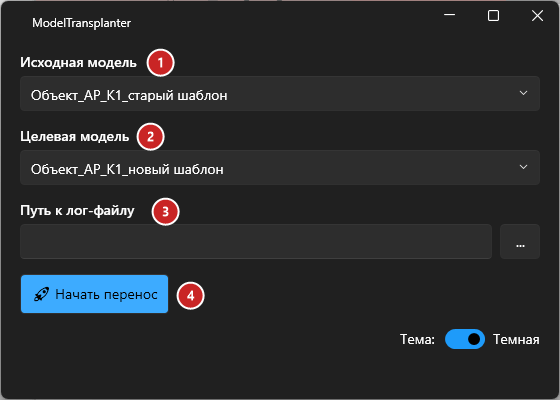
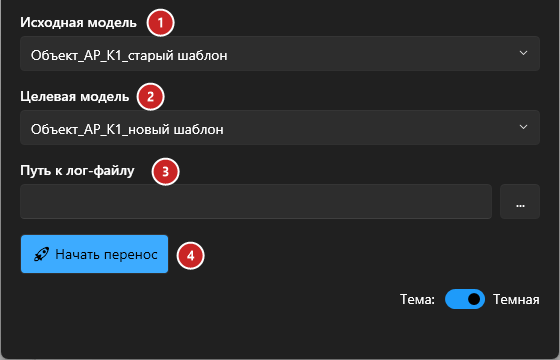
fixes ugs and add wiki links in plugins

diff --git a/source/ParamChecker/Views/Pages/ExportProfiles.xaml b/source/ParamChecker/Views/Pages/ExportProfiles.xaml
@@ -138,8 +138,8 @@
                                         MaxHeight="50"
                                         VerticalScrollBarVisibility="Auto"
                                         HorizontalScrollBarVisibility="Disabled"
-                                        TextWrapping="Wrap"
-                                        AcceptsReturn="True" />
+                                        TextWrapping="NoWrap"
+                                        AcceptsReturn="False" />
 
                                     <ui:Button
                                         Grid.Column="2"
@@ -157,7 +157,7 @@
                                         Margin="10,0,0,0"
                                         MaxHeight="50"
                                         VerticalScrollBarVisibility="Auto"
-                                        TextWrapping="Wrap"
+                                        TextWrapping="NoWrap"
                                         HorizontalScrollBarVisibility="Disabled" />
 
                                     <ui:Button

diff --git a/source/ToadExporter/Views/ToadExporterView.xaml b/source/ToadExporter/Views/ToadExporterView.xaml
@@ -312,7 +312,7 @@
                                           ToolTipService.ShowOnDisabled="True" />
                                 <CheckBox Content="Сжать файл" IsChecked="{Binding Settings.Compact}" Margin="0,4,0,0" />
                                 <TextBlock Margin="0,8,0,0" Opacity="0.7" FontSize="12" TextWrapping="Wrap"
-                                           Text="Сохраняется как файл хранилища — у получателя откроется без предупреждений" />
+                                           Text="Модель совместной работы сохраняется локальной копией с рабочими наборами (как createLocalRVT); её файл хранилища не сохраняется" />
                             </StackPanel>
                         </ui:CardExpander>
 

diff --git a/source/ParamToFinish/Views/ParamToFinishView.xaml b/source/ParamToFinish/Views/ParamToFinishView.xaml
@@ -8,7 +8,7 @@
     xmlns:viewModels="clr-namespace:ParamToFinish.ViewModels"
     d:DataContext="{d:DesignInstance Type=viewModels:ParamToFinishViewModel}"
     mc:Ignorable="d"
-    Title="ModelTransplanter"
+    Title="Основание отделки"
     WindowStartupLocation="CenterScreen"
     WindowBackdropType="Mica"
     WindowCornerPreference="Round"
@@ -24,7 +24,7 @@
             <RowDefinition Height="Auto" />
         </Grid.RowDefinitions>
         <!-- Title Bar -->
-        <ui:TitleBar Grid.Row="0" Title="ParamToFinish" Icon="AddCircle24" />
+        <ui:TitleBar Grid.Row="0" Title="Основание отделки" Icon="AddCircle24" />
         
         <!-- Content -->
         <Grid Grid.Row="1" Margin="10,0,10,10">

diff --git a/source/CreateSpaces/Views/CreateSpacesView.xaml b/source/CreateSpaces/Views/CreateSpacesView.xaml
@@ -6,7 +6,7 @@
     xmlns:d="http://schemas.microsoft.com/expression/blend/2008"
     xmlns:ui="http://schemas.lepo.co/wpfui/2022/xaml"
     mc:Ignorable="d"
-    Title="ModelTransplanter"
+    Title="Создание пространств"
     WindowStartupLocation="CenterScreen"
     WindowBackdropType="Mica"
     WindowCornerPreference="Round"
@@ -22,7 +22,7 @@
             <RowDefinition Height="Auto" />
         </Grid.RowDefinitions>
         <!-- Title Bar -->
-        <ui:TitleBar Grid.Row="0" Title="CreateCover" Icon="AddCircle24" />
+        <ui:TitleBar Grid.Row="0" Title="Создание пространств" Icon="AddCircle24" />
         
         <!-- Content -->
         <Grid Grid.Row="1" Margin="10,0,10,10">

diff --git a/source/CreateCover/Views/CreateCoverView.xaml b/source/CreateCover/Views/CreateCoverView.xaml
@@ -6,7 +6,7 @@
     xmlns:d="http://schemas.microsoft.com/expression/blend/2008"
     xmlns:ui="http://schemas.lepo.co/wpfui/2022/xaml"
     mc:Ignorable="d"
-    Title="ModelTransplanter"
+    Title="Разместить крышки"
     WindowStartupLocation="CenterScreen"
     WindowBackdropType="Mica"
     WindowCornerPreference="Round"
@@ -22,7 +22,7 @@
             <RowDefinition Height="Auto" />
         </Grid.RowDefinitions>
         <!-- Title Bar -->
-        <ui:TitleBar Grid.Row="0" Title="CreateCover" Icon="AddCircle24" />
+        <ui:TitleBar Grid.Row="0" Title="Разместить крышки" Icon="AddCircle24" />
         
         <!-- Content -->
         <Grid Grid.Row="1" Margin="10,0,10,10">

diff --git a/source/WriteDash/Views/WriteDashView.xaml b/source/WriteDash/Views/WriteDashView.xaml
@@ -6,7 +6,7 @@
     xmlns:d="http://schemas.microsoft.com/expression/blend/2008"
     xmlns:ui="http://schemas.lepo.co/wpfui/2022/xaml"
     mc:Ignorable="d"
-    Title="ModelTransplanter"
+    Title="Записать прочерк"
     WindowStartupLocation="CenterScreen"
     WindowBackdropType="Mica"
     WindowCornerPreference="Round"
@@ -22,7 +22,7 @@
             <RowDefinition Height="Auto" />
         </Grid.RowDefinitions>
         <!-- Title Bar -->
-        <ui:TitleBar Grid.Row="0" Title="WriteDash" Icon="AddCircle24" />
+        <ui:TitleBar Grid.Row="0" Title="Записать прочерк" Icon="AddCircle24" />
         
         <!-- Content -->
         <Grid Grid.Row="1" Margin="10,0,10,10">

diff --git a/source/ModelTransplanter/Views/ModelTransplanterView.xaml b/source/ModelTransplanter/Views/ModelTransplanterView.xaml
@@ -7,7 +7,7 @@
     xmlns:ui="http://schemas.lepo.co/wpfui/2022/xaml"
     xmlns:converters="clr-namespace:ToadTools.UI.Converters;assembly=ToadTools.UI"
     mc:Ignorable="d"
-    Title="ModelTransplanter"
+    Title="Копирование элементов"
     WindowStartupLocation="CenterScreen"
     WindowBackdropType="Mica"
     WindowCornerPreference="Round"
@@ -19,7 +19,7 @@
 
     <Grid>
         <!-- Title Bar -->
-        <ui:TitleBar Title="ModelTransplanter" Icon="AddCircle24" />
+        <ui:TitleBar Title="Копирование элементов" Icon="AddCircle24" />
 
         <!-- Content -->
         <StackPanel Margin="20" VerticalAlignment="Center">

diff --git a/source/WorkingSet/Views/WorkingSetView.xaml b/source/WorkingSet/Views/WorkingSetView.xaml
@@ -9,7 +9,7 @@
     WindowStartupLocation="CenterScreen"
     WindowBackdropType="Mica"
     WindowCornerPreference="Round"
-    Title="WorkingSet"
+    Title="Создание рабочих наборов"
     Height="300"
     Width="400"
     MinHeight="300"
@@ -21,7 +21,7 @@
             <RowDefinition Height="*"/>
         </Grid.RowDefinitions>
         
-        <ui:TitleBar Grid.Row="0" Title="Создание Рабочих наборов">
+        <ui:TitleBar Grid.Row="0" Title="Создание рабочих наборов">
             <ui:TitleBar.Icon>
                 <ui:SymbolIcon Symbol="AddCircle24"/>
             </ui:TitleBar.Icon>            

diff --git a/source/QuantityCheck/Views/QuantityCheckView.xaml b/source/QuantityCheck/Views/QuantityCheckView.xaml
@@ -9,7 +9,7 @@
     WindowStartupLocation="CenterScreen"
     WindowBackdropType="Mica"
     WindowCornerPreference="Round"
-    Title="WorkingSet"
+    Title="Записать количество"
     Height="300"
     Width="450"
     MinHeight="250"
@@ -27,7 +27,7 @@
 
         <!-- Заголовок -->
         <ui:TitleBar Grid.Row="0"
-                     Title="Создание рабочих наборов"
+                     Title="Записать количество"
                      Margin="0,0,0,10">
             <ui:TitleBar.Icon>
                 <ui:SymbolIcon Symbol="AddCircle24"/>

diff --git a/source/SSPlan/Views/SSPlanView.xaml b/source/SSPlan/Views/SSPlanView.xaml
@@ -9,7 +9,7 @@
     WindowStartupLocation="CenterScreen"
     WindowBackdropType="Mica"
     WindowCornerPreference="Round"
-    Title="WorkingSet"
+    Title="Структурная схема"
     Height="450"
     Width="450"
     MinHeight="450"

diff --git a/source/SmartTags/Views/PickPanelView.xaml b/source/SmartTags/Views/PickPanelView.xaml
@@ -11,7 +11,8 @@
     ShowInTaskbar="False"
     ShowActivated="False"
     Width="380"
-    SizeToContent="Height"
+    Height="150"
+    MinHeight="0"
     ExtendsContentIntoTitleBar="True">
     <Grid>
         <Grid.RowDefinitions>

diff --git a/source/ToadTools/Application.cs b/source/ToadTools/Application.cs
@@ -13,7 +13,8 @@ namespace ToadTools
     public class Application : AsyncExternalApplication
     {
         private const string TabName = "ToadTools";
-        private const string HelpUrl = "https://bim-baza.yonote.ru/doc/";
+        /// <summary>Вики плагина: страница справки открывается по F1 на кнопке ленты.</summary>
+        internal const string WikiUrl = "https://github.com/Alexpivo394/ToadTools/wiki/";
 
         public override async Task OnStartupAsync()
         {
@@ -45,31 +46,28 @@ namespace ToadTools
             var worksets = panel.AddSplitButton("Worksets", "Рабочие\nнаборы");
             worksets.AddPushButton<Commands.WorkingSetCommand>("Создание\nнаборов")
                 .WithIcon("Create")
-                .WithInfo("Создает в модели рабочие наборы\nдля выбранного раздела.",
-                    "sozdanie-rabochih-naborov-plaginom-rptools-j3Ycy39HVW");
+                .WithInfo("Создает в модели рабочие наборы\nдля выбранного раздела.", "WorkingSet");
             worksets.AddPushButton<Commands.WorksetCheckCommand>("Проверка\nнаборов")
                 .WithIcon("WorksetsCheck")
                 .WithInfo("Проверяет распределение элементов\nоткрытой модели по рабочим наборам\nи исправляет найденное.",
-                    "worksetcheck-rfycq6j0Bd");
+                    "WorksetCheck");
 
             panel.AddPushButton<Commands.ParamCheckerCommand>("Param\nChecker")
                 .WithIcon("Export")
-                .WithInfo("Выгружает из моделей на сервере\nотчет по заполнению параметров.",
-                    "paramchecker-movFIkYSwy");
+                .WithInfo("Выгружает из моделей на сервере\nотчет по заполнению параметров.", "ParamChecker");
 
             panel.AddPushButton<Commands.ToadExporterCommand>("Toad\nExporter")
                 .WithIcon("ToadExporter")
-                .WithInfo("Выгружает модели с Revit Server\nили из папки в RVT и NWC.");
+                .WithInfo("Выгружает модели с Revit Server\nили из папки в RVT и NWC.", "ToadExporter");
 
             var stack = panel.AddStackPanel();
             stack.AddPushButton<Commands.ModelTransplanterCommand>("Копирование элементов")
                 .WithIcon("Transplanter")
-                .WithInfo("Позволяет копировать элементы\nиз модели в модель.",
-                    "kopirovanie-soderzhimogo-modeli-7q8Wf296FB");
+                .WithInfo("Позволяет копировать элементы\nиз модели в модель.", "ModelTransplanter");
             stack.AddPushButton<Commands.ChangeSharedFamiliesCommand>("Общие → необщие")
                 .WithIcon("ChangeSharedFamilies")
                 .WithInfo("Заменяет общие вложенные семейства\nна необщие. Работает только с\nредактором семейства.",
-                    "zamenit-obshie-semejstva-neobshimi-BDbyQvBJH7");
+                    "ChangeSharedFamilies");
         }
 
         private void CreateGeneralPanel()
@@ -80,25 +78,24 @@ namespace ToadTools
             var stack = panel.AddStackPanel();
             stack.AddPushButton<Commands.SmartTagsCommand>("Умные выноски")
                 .WithIcon("SmartTags")
-                .WithInfo("Расставляет марки на видимых элементах\nактивного вида без пересечений текста\nи выносок. Весь запуск отменяется\nодним Ctrl+Z.");
+                .WithInfo("Расставляет марки на видимых элементах\nактивного вида без пересечений текста\nи выносок. Весь запуск отменяется\nодним Ctrl+Z.",
+                    "SmartTags");
             stack.AddPushButton<Commands.QuantityCheckCommand>("Запись количества")
                 .WithIcon("QuantityCheck")
-                .WithInfo("Заполняет параметр количества\nв элементах модели.",
-                    "zapolnenie-parametra-kolichestvo-beinN88LwP");
+                .WithInfo("Заполняет параметр количества\nв элементах модели.", "QuantityCheck");
             stack.AddPushButton<Commands.WriteDashCommand>("Запись прочерков")
                 .WithIcon("WriteDash")
-                .WithInfo("Заполняет прочерк в указанные параметры\nесли в них нет значения.",
-                    "zapisat-procherk-kfwUDj6TeL");
+                .WithInfo("Заполняет прочерк в указанные параметры\nесли в них нет значения.", "WriteDash");
             stack.AddPushButton<Commands.ClassifierCodeCommand>("Код классификатора")
                 .WithIcon("ClassifierCode")
-                .WithInfo("Заполняет ADSK_Код по классификатору\nи ADSK_Описание по классификатору\nу элементов ИОС.");
+                .WithInfo("Заполняет ADSK_Код по классификатору\nи ADSK_Описание по классификатору\nу элементов ИОС.",
+                    "ClassifierCode");
             stack.AddPushButton<Commands.LengthCommand>("Длина элементов")
                 .WithIcon("Ruler")
-                .WithInfo("Посчитать суммарную длину выбранных элементов.");
+                .WithInfo("Посчитать суммарную длину выбранных элементов.", "Length");
             stack.AddPushButton<Commands.CreateSpacesCommand>("Создание пространств")
                 .WithIcon("Spaces")
-                .WithInfo("Создает в проекте пространства на основе помещений из раздела АР.",
-                    "sozdanie-prostranstv-Bia5rDOjqY");
+                .WithInfo("Создает в проекте пространства на основе помещений из раздела АР.", "CreateSpaces");
         }
 
         private void CreateDisciplinePanels()
@@ -107,52 +104,65 @@ namespace ToadTools
             var panelTray = CreatePanel("Лотки", MediaColor.FromRgb(152, 168, 124));
 
             var trays = panelTray.AddPullDownButton("Кабельные лотки", "Кабельные лотки");
-            trays.WithIcon("1Tray").SetContextualHelp(Help("kabelnye-lotki-hSP8BFIW8g"));
-            trays.AddPushButton<Commands.CableTrayArticulCommand>("Артикулы и наименования").WithIcon("1Tray");
-            trays.AddPushButton<Commands.CableTrayColorPerforationCommand>("Покрасить по перфорации").WithIcon("1Tray");
-            trays.AddPushButton<Commands.CableTrayColorVariantCommand>("Покрасить по исполнению").WithIcon("1Tray");
-            trays.AddPushButton<Commands.CableTrayColorCoverCommand>("Покрасить крышки").WithIcon("1Tray");
+            trays.WithIcon("1Tray").WithInfo("Артикулы и наименования лотков,\nраскраска лотков на виде.", "CableTrays");
+            trays.AddPushButton<Commands.CableTrayArticulCommand>("Артикулы и наименования").WithIcon("1Tray")
+                .WithInfo("Заполняет код изделия, наименование\nи количество у лотков.", "CableTrays");
+            trays.AddPushButton<Commands.CableTrayColorPerforationCommand>("Покрасить по перфорации").WithIcon("1Tray")
+                .WithInfo("Раскрашивает лотки на виде по типу:\nперфорированный, неперфорированный,\nпроволочный.", "CableTrays");
+            trays.AddPushButton<Commands.CableTrayColorVariantCommand>("Покрасить по исполнению").WithIcon("1Tray")
+                .WithInfo("Раскрашивает лотки и детали на виде\nпо ADSK_Исполнение.", "CableTrays");
+            trays.AddPushButton<Commands.CableTrayColorCoverCommand>("Покрасить крышки").WithIcon("1Tray")
+                .WithInfo("Выделяет на виде красным лотки\nи детали с крышкой.", "CableTrays");
 
             panelTray.AddPushButton<Commands.CreateCoverCommand>("Разместить\nкрышки")
                 .WithIcon("CreateCover")
-                .WithInfo("Разместить в модели крышки на кабельные лотки", "razmestit-kryshki-pJSWjFkyzL");
+                .WithInfo("Разместить в модели крышки на кабельные лотки", "CreateCover");
 
             //Сети связи
             var panelSs = CreatePanel("Сети связи", MediaColor.FromRgb(155, 242, 222));
 
             panelSs.AddPushButton<Commands.SSPlanCommand>("Структурная\nсхема")
                 .WithIcon("SSPlan")
-                .WithInfo("Создать структурную схему.", "strukturnaya-shema-yO3TQrgqVS");
+                .WithInfo("Создать структурную схему.", "SSPlan");
 
             //ОВ
             var panelOv = CreatePanel("ОВ", MediaColor.FromRgb(255, 209, 220));
 
             var warm = panelOv.AddPullDownButton("Теплопотери", "Теплопотери");
-            warm.WithIcon("WarmSync").SetContextualHelp(Help("sinhronizaciya-teplopoter-RWMUuxZBdq"));
-            warm.AddPushButton<Commands.RenameSpacesCommand>("Заполнение имен пространств").WithIcon("WarmSync");
-            warm.AddPushButton<Commands.WriteSpaceIdToParamCommand>("Запись ID пространств").WithIcon("WarmSync");
-            warm.AddPushButton<Commands.ExportSpacesToExcelCommand>("Экспорт пространств в Excel").WithIcon("WarmSync");
-            warm.AddPushButton<Commands.WriteFromExcelCommand>("Импорт значений из Excel").WithIcon("WarmSync");
+            warm.WithIcon("WarmSync").WithInfo("Обмен температурой и теплопотерями\nмежду пространствами и Excel.", "WarmSync");
+            warm.AddPushButton<Commands.RenameSpacesCommand>("Заполнение номеров пространств").WithIcon("WarmSync")
+                .WithInfo("Записывает пространствам номера\nпо помещениям из связи АР.", "WarmSync");
+            warm.AddPushButton<Commands.WriteSpaceIdToParamCommand>("Запись ID пространств").WithIcon("WarmSync")
+                .WithInfo("Записывает ID пространства\nв параметр «ID элемента».", "WarmSync");
+            warm.AddPushButton<Commands.ExportSpacesToExcelCommand>("Экспорт пространств в Excel").WithIcon("WarmSync")
+                .WithInfo("Выгружает пространства в Excel.", "WarmSync");
+            warm.AddPushButton<Commands.WriteFromExcelCommand>("Импорт значений из Excel").WithIcon("WarmSync")
+                .WithInfo("Загружает температуру и теплопотери\nиз Excel в пространства.", "WarmSync");
 
             //АР
             var panelAr = CreatePanel("АР", MediaColor.FromRgb(245, 245, 220));
 
             panelAr.AddPushButton<Commands.DoorSideCommand>("Открывание\nдверей")
                 .WithIcon("DoorSide")
-                .WithInfo("Записать сторону открывания двери в параметр Открывание", "otkryvanie-dveri-JJyZ1390oD");
+                .WithInfo("Записать сторону открывания двери в параметр Открывание", "DoorSide");
             panelAr.AddPushButton<Commands.ParamToFinishCommand>("Основание\nотделки")
                 .WithIcon("ParamToFinish")
-                .WithInfo("Позволяет записать основание отделки в выбранный параметр", "osnovanie-otdelki-EcPw4yHPWP");
+                .WithInfo("Позволяет записать основание отделки в выбранный параметр", "ParamToFinish");
 
             //КР
             var panelKr = CreatePanel("КР", MediaColor.FromRgb(172, 229, 238));
 
+            const string reinforcementPage = "ReinforcementByColor";
             var reinforcement = panelKr.AddPullDownButton("Армирование", "Армирование");
-            reinforcement.WithIcon("Rei").WithInfo("Размещает семейства армирования взамен цветовых областей");
-            reinforcement.AddPushButton<Commands.RSHPLeftRightCommand>("R-SHP-Армирование по Y").WithIcon("Rei");
-            reinforcement.AddPushButton<Commands.RSHPUpDownCommand>("R-SHP-Армирование по X").WithIcon("Rei");
-            reinforcement.AddPushButton<Commands.RSUMLeftRightCommand>("R-SUM-Армирование по Y").WithIcon("Rei");
-            reinforcement.AddPushButton<Commands.RSUMUpDownCommand>("R-SUM-Армирование по X").WithIcon("Rei");
+            reinforcement.WithIcon("Rei").WithInfo("Размещает семейства армирования взамен цветовых областей", reinforcementPage);
+            reinforcement.AddPushButton<Commands.RSHPLeftRightCommand>("R-SHP-Армирование по Y").WithIcon("Rei")
+                .WithInfo("Заменяет выбранные области семейством\nR-SHP, стержни вдоль Y.", reinforcementPage);
+            reinforcement.AddPushButton<Commands.RSHPUpDownCommand>("R-SHP-Армирование по X").WithIcon("Rei")
+                .WithInfo("Заменяет выбранные области семейством\nR-SHP, стержни вдоль X.", reinforcementPage);
+            reinforcement.AddPushButton<Commands.RSUMLeftRightCommand>("R-SUM-Армирование по Y").WithIcon("Rei")
+                .WithInfo("Заменяет выбранные области семейством\nR-SUM, стержни вдоль Y.", reinforcementPage);
+            reinforcement.AddPushButton<Commands.RSUMUpDownCommand>("R-SUM-Армирование по X").WithIcon("Rei")
+                .WithInfo("Заменяет выбранные области семейством\nR-SUM, стержни вдоль X.", reinforcementPage);
         }
 
         private RibbonPanel CreatePanel(string name, MediaColor titleColor)
@@ -166,7 +176,7 @@ namespace ToadTools
             $"/ToadTools;component/Resources/Icons/{icon}{size}.png";
 
         internal static ContextualHelp Help(string page) =>
-            new(ContextualHelpType.Url, HelpUrl + page);
+            new(ContextualHelpType.Url, WikiUrl + page);
     }
 
     internal static class RibbonButtonExtensions
@@ -182,7 +192,7 @@ namespace ToadTools
         }
 
         /// <summary>
-        ///     Подсказка и, если есть, ссылка на страницу справки (открывается по F1).
+        ///     Подсказка и, если есть, страница вики (открывается по F1, пока курсор на кнопке).
         /// </summary>
         public static T WithInfo<T>(this T item, string toolTip, string? helpPage = null) where T : RibbonItem
         {
